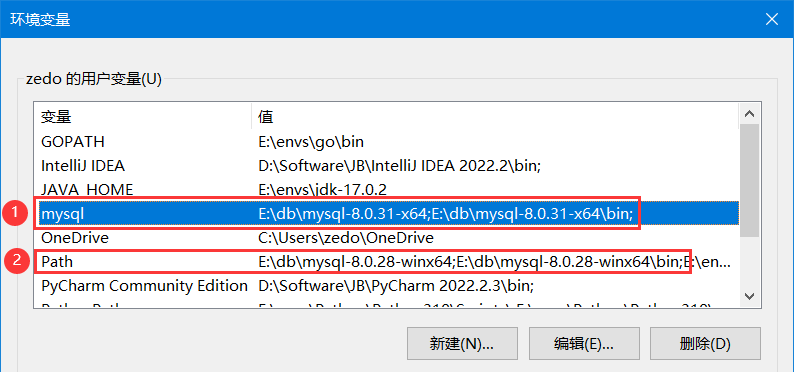
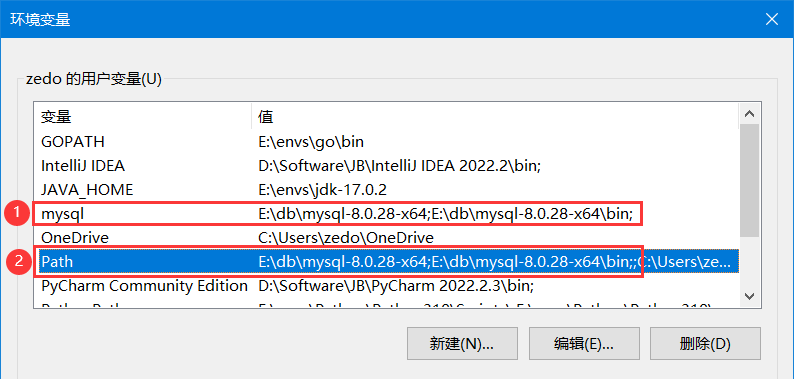
docs: mysql, python

diff --git a/docs/software/mysql-installation.md b/docs/software/mysql-installation.md
@@ -2,9 +2,11 @@
 date: 2022-10-24
 tag:
     - MySQL
+category:
+    - 数据库
 ---
 
-# MySQL 安装
+# MySQL8.0 安装
 
 > 最近做课设需要用到 MySQL~~(虽然我更喜欢 PostgreSQL)~~，于是就记录下安装过程。
 
@@ -57,7 +59,7 @@ datadir="E:\db\mysql-8.0.28-x64\data"
 E:\db\mysql-8.0.28-x64;E:\db\mysql-8.0.28-x64\bin
 ```
 
-然后在 Path 变量里引用该变量：`%mysql%`
+然后在 Path 变量里添加并引用该变量：`%mysql%`
 
 ![配置环境变量示意图](./img/mysql/1666610578065.png)
 
@@ -113,6 +115,8 @@ MySQL 服务正在启动 .
 MySQL 服务已经启动成功。
 ```
 
+> 有些时候可能需要重启 MySQL，可以先停止服务再启动：`net stop mysql`。
+
 接着登陆 mysql：
 
 ```sh
@@ -120,7 +124,7 @@ mysql -u root -p
 # 输入密码时要手打！
 ```
 
-![1666612527556](img/mysql/1666612527556.png)
+![1666612527556](./img/mysql/1666612527556.png)
 
 先不要着急关闭或退出，先修改密码：
 
@@ -134,8 +138,77 @@ alter user 'root'@'localhost' identified by '123456';
 
 不放心密码是否修改成功的，可以重新用上面的命令连接，登陆测试一下。
 
-下面我用的是 IDEA 内置的数据库工具连接，用户名填 `root` 就可以了，端口默认是 `3306`，数据库名可以不填：
+下面我用的是 IDEA 内置的数据库工具连接，用户名填 `root` 就可以了，端口默认是 `3306`，数据库名可以不填(默认是 mysql)：
 
-![1666613984187](img/mysql/1666613984187.png)
+![1666613984187](./img/mysql/1666613984187.png)
 
 连接成功！至此，我们已经完成了 MySQL 的安装。
+
+## SQL 创建数据库和用户
+
+我们可以在命令行终端登陆后执行 SQL，也可以在图形化数据库工具执行。
+
+创建一个名为 `my_app` 的数据库：
+
+```sql
+mysql> create database my_app;
+Query OK, 1 row affected (0.01 sec)
+```
+
+连接它的 URL 就是：
+
+```text
+jdbc:mysql://localhost:3306/my_app
+```
+
+root 用户权限太高，通常会新建另一个用户来操作数据库：
+
+```sql
+-- 切换到刚刚创建的数据库
+use my_app;
+
+-- 创建一个允许任意 ip 远程连接的用户
+create user zedo@'%' identified by '123456';
+-- 移除用户
+drop user if exists zedo@'%';
+
+-- 给非 root 账户添加权限才能访问新建的数据库
+grant all privileges on my_app.* to 'zedo'@'%';
+```
+
+数据库用户部分我搜到这篇挺不错的：[MySQL 创建用户](https://www.yiibai.com/mysql/create-user.html)。
+
+## 其他操作
+
+常见的 SQL 这里就不列举了，主要记录一些不“常规”的操作。
+
+### 修改时区
+
+MySQL 默认使用的时区是 UTC 时区，通常我们要修改成东八区，可以通过连接数据库时的 URL 参数 `serverTimezone` 修改，也用 SQL 语句来临时修改，但这里我们通过 `my.ini` 实现永久修改：
+
+```ini
+[mysqld]
+default-time-zone="+08:00"
+```
+
+可能要重启 MySQL 服务才能生效，检测一下：
+
+```sql
+show variables like '%time_zone%';
+```
+
+可以就看到改动生效了：
+
+```diff
+  +------------------+--------+
+  | Variable_name    | Value  |
+  +------------------+--------+
+  | system_time_zone |        |
+- | time_zone        | SYSTEM |
++ | time_zone        | +08:00 |
+  +------------------+--------+
+```
+
+其他问题：
+
+- [MySQL 服务无法启动原因及解决办法](https://blog.csdn.net/weixin_44698389/article/details/105363480)

diff --git a/docs/note/py/note.md b/docs/note/py/note.md
@@ -1,6 +1,10 @@
 ---
 date: 2022-10-16
 icon: python
+tag:
+    - python
+category:
+    - python
 ---
 
 # Python 笔记
@@ -137,9 +141,9 @@ django-admin startapp app
 │  │  views.py
 │  │  __init__.py
 │  │
-│  └─migrations
-│     │
-│     └─ __init__.py
+│  └─ migrations
+│      │
+│      └─ __init__.py
 │
 └─demo
     │  asgi.py
@@ -224,4 +228,4 @@ pip install PyQt5-tools
 
 为了后续能够快速打开 `designer.exe` 以及全局使用 `uic.exe`(编译 `.ui` 文件用的)，建议添加把 `site-packages\PySide2\` 添加到环境变量。
 
-如果使用 PyQt5，为了能够得到类型提示，可以安装 `PyQt5-stubs`
+如果使用 PyQt5，为了能够得到更好的提示，可以安装 `PyQt5-stubs`。
